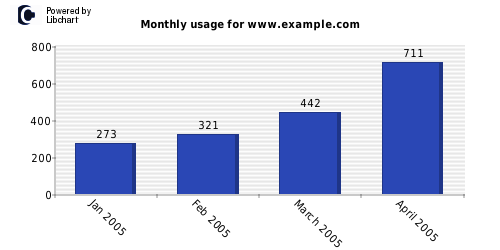
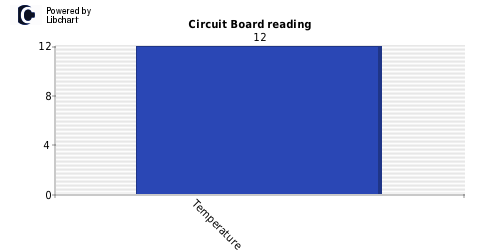
chart temperature working and new styling css

diff --git a/public_php/telemetry_public/css/standard.css b/public_php/telemetry_public/css/standard.css
@@ -26,7 +26,10 @@ a:link {
     text-align:center;
 }
 #page-content-div {
-
+    display: flex;
+    justify-content: center;
+    align-items: center;
+    flex-direction: column;
 }
 #clear-div {
     clear:both;
@@ -95,13 +98,30 @@ a:link {
     align-items: center;
     background-color: #333;
     height: 200px;
+    width: 100%;
 }
 
 .info-div p {
     color: #fff;
 }
 
-/* div styles */
+.result-container{
+    display: inline-block;
+    border-radius: 10px;
+    border: 2px solid #555;
+}
+
+.result-div{
+    display: flex;
+    flex-direction: column;
+    justify-content: center;
+    align-items: center;
+    padding: 2rem;
+}
+
+#send-result-text {
+    margin: 1rem 0 4rem 0;
+}
 
 .vert-div {
     display: flex;
@@ -115,6 +135,13 @@ a:link {
     display: flex;
     justify-content: center;
     align-items: center;
+}
+
+.form-container {
+    padding: 1rem;
+    background-color: #cc0066;
+    display: inline-block;
+    margin: auto;
 }
 
 .button-rounded {
@@ -132,21 +159,13 @@ a:link {
     box-shadow: 2px 2px black;
 }
 
-.message-container {
-    padding: 2rem;
-    background-color: red;
-    border-radius: 10px;
-    width: auto;
-    height: 120px;
-}
-
 /* Table styles P2508450*/
 
 .telemetry-readings {
     font-family: Arial, Helvetica, sans-serif;
     border-collapse: collapse;
     width: 100%;
-    margin: 0px 20px 0px 20px;
+    margin: 0px 20px 40px 20px;
 }
 
 .telemetry-readings td, #customers thead {

diff --git a/includes/telemetry/app/src/SettingsChartModel.php b/includes/telemetry/app/src/SettingsChartModel.php
@@ -13,7 +13,6 @@ class SettingsChartModel
 
     public function __construct()
     {
-        require_once 'libchart/classes/libchart.php';
         $this->height = 500;
         $this->height = 500;
         $this->chart_location = null;
@@ -32,18 +31,17 @@ class SettingsChartModel
     }
 
     /**
-     * creates a chart image, stores it at the defined location
+     * creates a chart image using temperature data passed from database, store image at the defined location
+     * @param int $temperature
      */
-    public function createSettingsChart()
+    public function createSettingsChart($temperature = 0)
     {
-        $chart = new VerticalBarChart(500, 250);
-        $dataSet = new XYDataSet();
-        $dataSet->addPoint(new Point("Jan 2005", 273));
-        $dataSet->addPoint(new Point("Feb 2005", 321));
-        $dataSet->addPoint(new Point("March 2005", 442));
-        $dataSet->addPoint(new Point("April 2005", 711));
+        require_once 'libchart/classes/libchart.php';
+        $chart = new \VerticalBarChart(500, 250);
+        $dataSet = new \XYDataSet();
+        $dataSet->addPoint(new \Point("Temperature", $temperature));
         $chart->setDataSet($dataSet);
-        $chart->setTitle("Monthly usage for www.example.com");
+        $chart->setTitle("Circuit Board reading");
 
         $output_chart_location = LIB_CHART_OUTPUT_PATH;
         $this->createChartDirectoryIfNotExists($output_chart_location);

diff --git a/includes/telemetry/app/routes/displaymessages.php b/includes/telemetry/app/routes/displaymessages.php
@@ -15,6 +15,7 @@ use Doctrine\DBAL\DriverManager;
 $app->get('/displaymessages', function (Request $request, Response $response) use ($app) {
     $sid = session_id();
 
+    $error_text = "";
     //instantiate logger
 
     $l = $app->getContainer()->get("monologWrapper");
@@ -43,7 +44,12 @@ $app->get('/displaymessages', function (Request $request, Response $response) us
     //get data from DB
     $data_from_db = retrieveMessages($app);
 
-    //format data so that 0 = backwards, 1 = reverse on fan.
+
+    //if no data received then display warning in error text;
+    if(count($data_from_db) < 1){
+        $error_text = "No telemetry data found in database";
+    }
+
 
     sendConfirmationMessage($app);
 
@@ -77,6 +83,7 @@ $app->get('/displaymessages', function (Request $request, Response $response) us
             'text_switch_off' => "OFF",
             'text_fan_fwd' => "FWD",
             'text_fan_rev' => "REV",
+            'text_error' => $error_text,
         ]);
 
     processOutput($app, $html_output);

diff --git a/includes/telemetry/app/routes/viewsettings.php b/includes/telemetry/app/routes/viewsettings.php
@@ -22,7 +22,7 @@ $view_settings = function (Request $request, Response $response) use ($app) {
         $current_settings = getCurrentSettings($data_from_db);
     }
 
-    $chart_location = generateChart($app);
+    $chart_location = generateChart($app, $current_settings);
 
     $html_output = $this->view->render($response,
         'viewsettings.html.twig',
@@ -61,10 +61,14 @@ function getCurrentSettings($messages_array)
 
 
 //TODO add to model
-function generateChart($app)
+function generateChart($app, $current_settings)
 {
+    $temperature = 0;
+    if(isset($current_settings["h_temp"])){
+        $temperature = $current_settings["h_temp"];
+    }
     $settings_chart_model = $app->getContainer()->get("settingsChartModel");
-    $settings_chart_model->createSettingsChart();
+    $settings_chart_model->createSettingsChart($temperature);
     $chart_location = $settings_chart_model->getChartLocation();
     return $chart_location;
 }

diff --git a/includes/telemetry/app/routes/sendsettings.php b/includes/telemetry/app/routes/sendsettings.php
@@ -22,7 +22,6 @@ $send_settings = function(Request $request, Response $response) use ($app)
             'css_path' => CSS_PATH,
             'landing_page' => LANDING_PAGE,
             'page_title' => APP_NAME,
-            'page_heading_1' => APP_NAME,
             'action' => 'processsettings',
             'method' => 'post',
             'device_id_text' => "Update settings for: ".DEVICE_ID,
